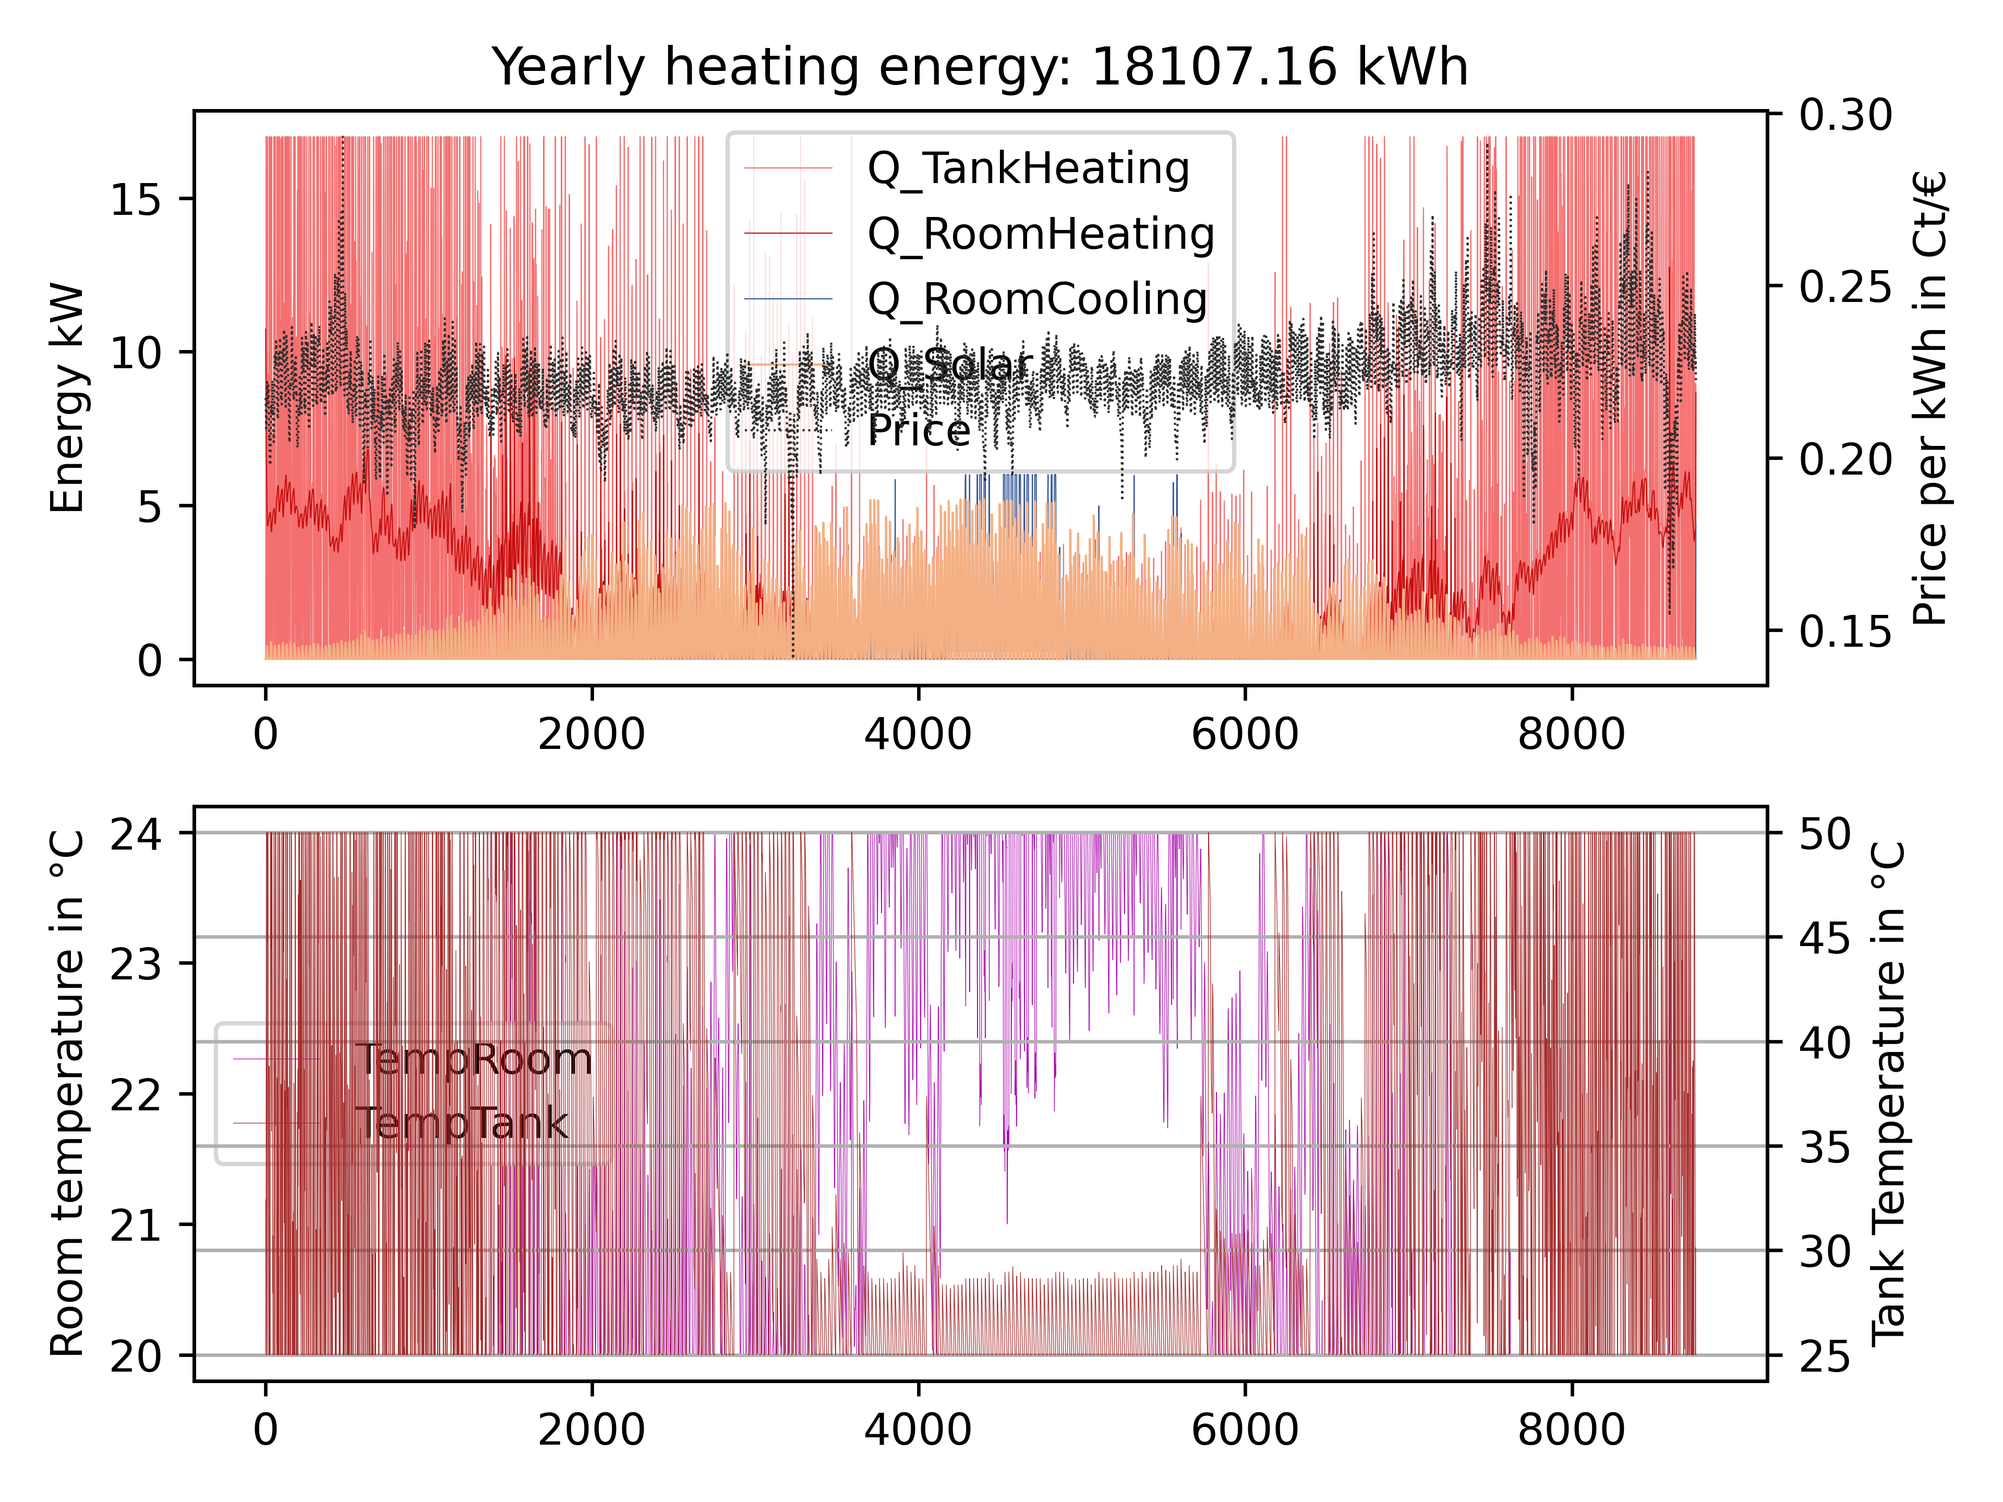
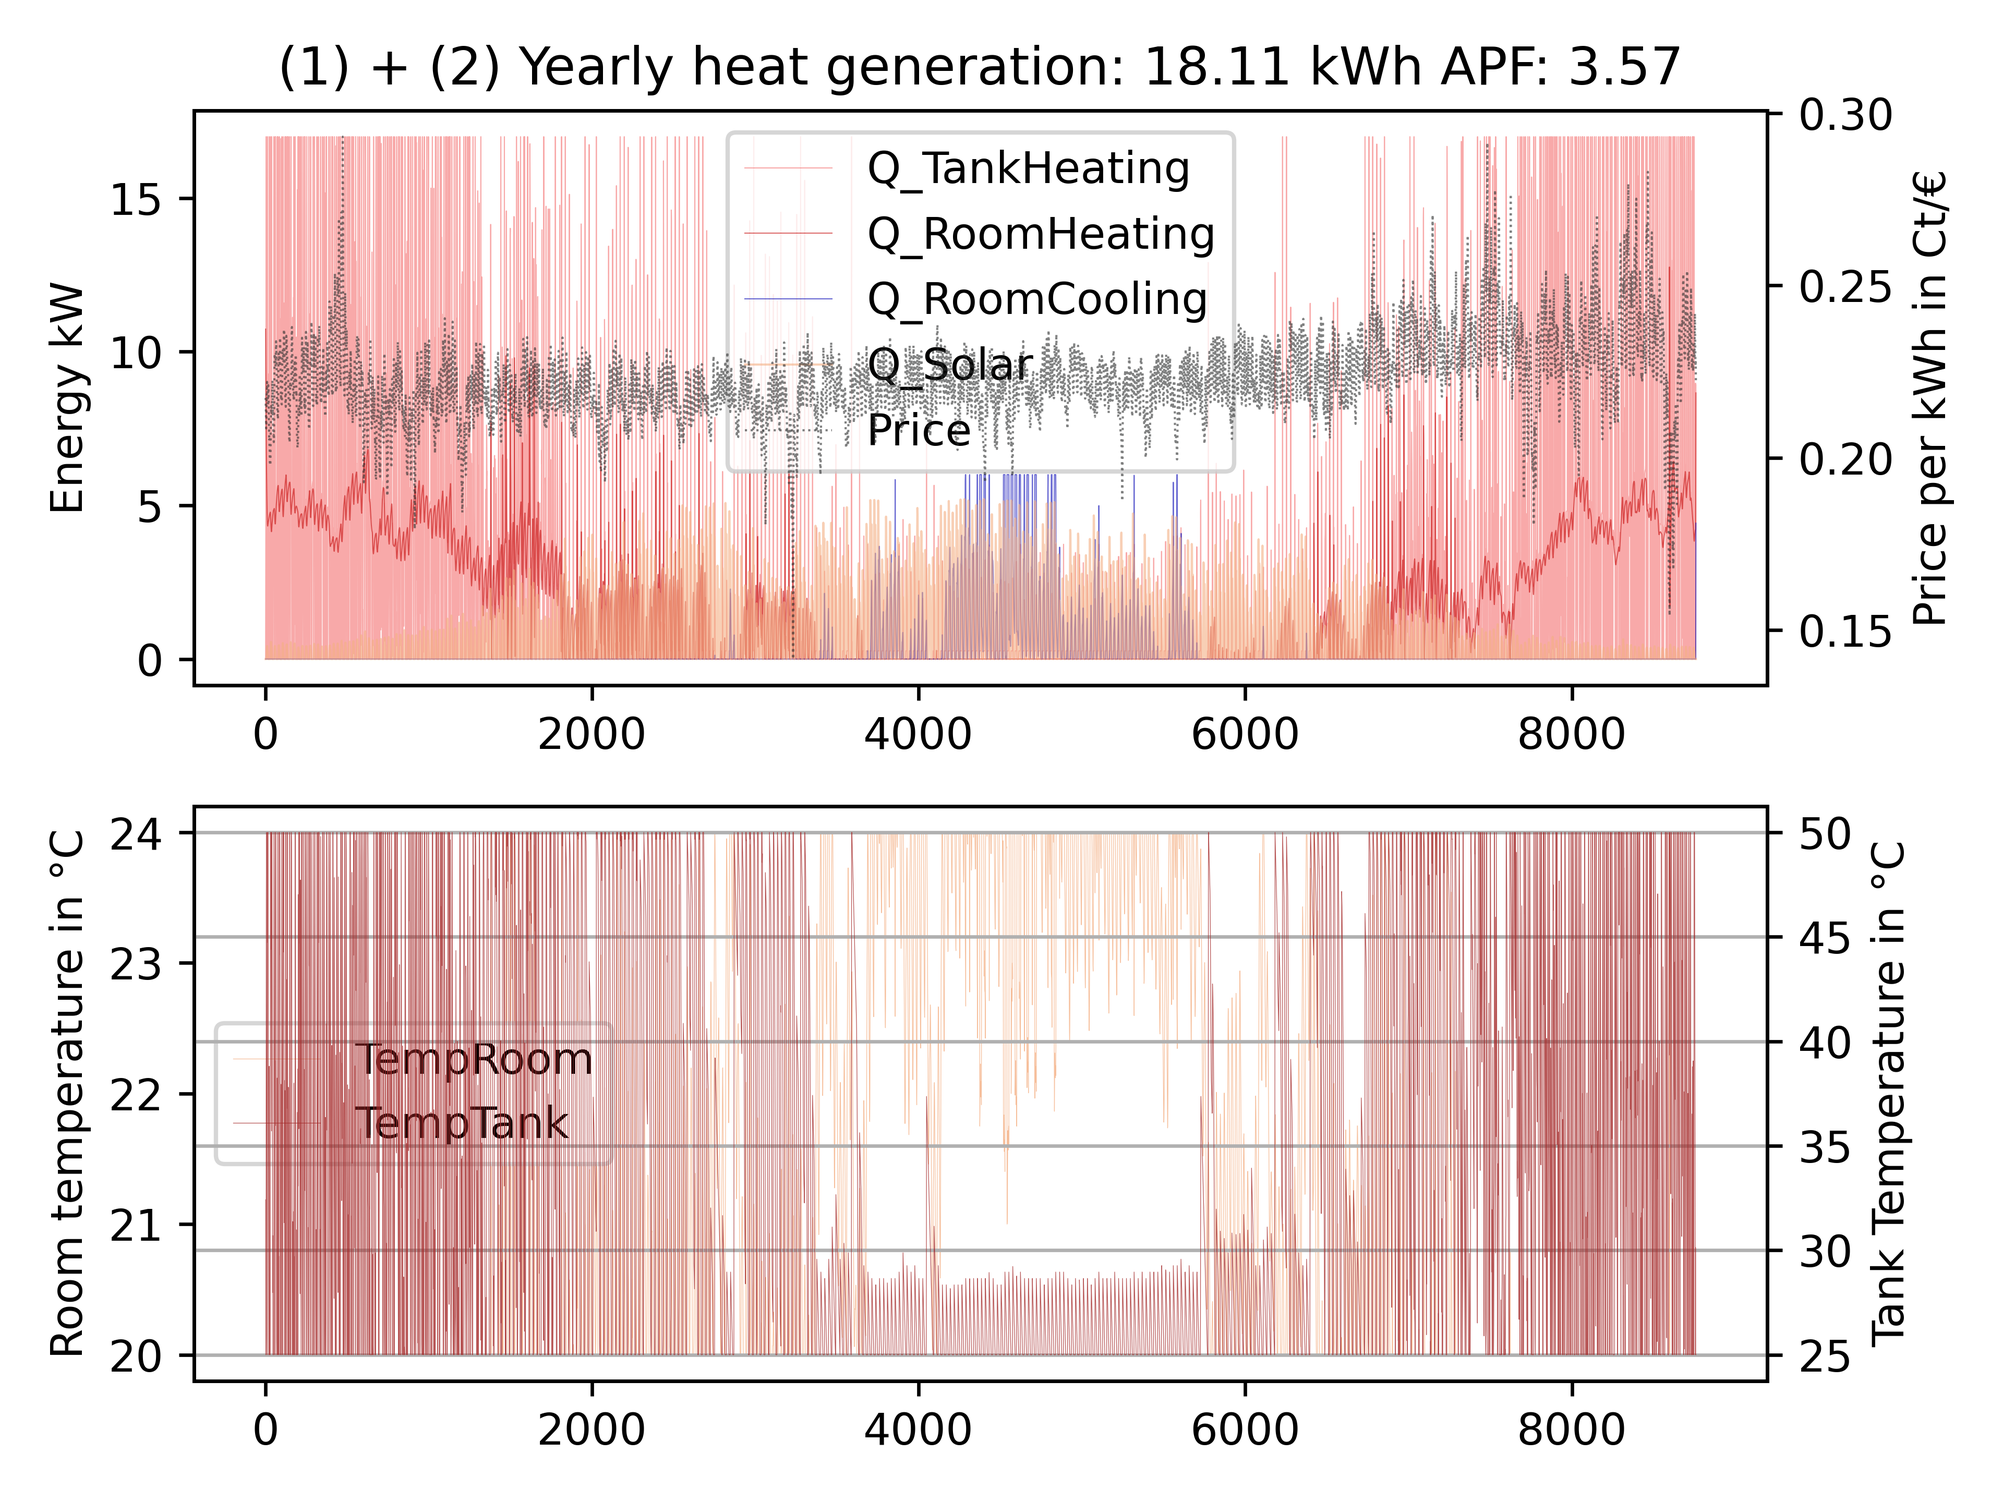
Validation with Checksums, Plot generation

Changed region(s): [[0.125, 0.5312, 0.8438, 0.9062], [0.125, 0.0938, 0.875, 0.4375], [0.125, 0.0312, 0.8438, 0.0625]]

diff --git a/C_Model/C2_OperationOptimization/C21_OperationOptimization.py b/C_Model/C2_OperationOptimization/C21_OperationOptimization.py
@@ -261,21 +261,12 @@ class OperationOptimization:
                 return m.StateOfCharge[t] == 1
             else:
                 return m.StateOfCharge[t] == m.StateOfCharge[t - 1] \
-                       + m.BatCharge[t-1] * Household.Battery.ChargeEfficiency \
-                       - m.BatDischarge[t-1] * (1 + (1 - Household.Battery.DischargeEfficiency)) \
-                    # - (Household.Battery.Capacity * 0.02 / 30 / 24)  # self discharge
+                       + m.BatCharge[t - 1] * Household.Battery.ChargeEfficiency \
+                       - m.BatDischarge[t - 1] * (1 + (1 - Household.Battery.DischargeEfficiency)) \
+                       - (Household.Battery.Capacity * 0.02 / 30 / 24)  # self discharge
                 # SelfDischarge into Database -> 2 % with Capacity
 
         m.calc_BatteryFillLevel = pyo.Constraint(m.t, rule=calc_StateOfCharge)
-
-        # def setToZero(m, t):
-        #     if t == 1:
-        #         return m.StateOfCharge[t] == m.StateOfCharge[t]
-        #     elif m.StateOfCharge[t-1] == 0.0:
-        #         return m.BatDischarge[t] == 0
-        #     else:
-        #         return m.BatDischarge[t] == m.BatDischarge[t]
-        # m.setToZero = pyo.Constraint(m.t, rule=setToZero)
 
         # # Photovoltaic
         def calc_UseOfPhotovoltaic(m, t):
@@ -359,30 +350,28 @@ class OperationOptimization:
         instance.display("./log.txt")
         print(results)
         # return relevant data
-        return instance, HoursOfSimulation, ListOfDynamicCOP, M_WaterTank, CWater, PhotovoltaicProfile
+        return instance, HoursOfSimulation, ListOfDynamicCOP, M_WaterTank, CWater
 
     def run(self):
         for household_id in range(37000, 37001):
             for environment_id in range(3, 4):
-                instance, HoursOfSimulation, ListOfDynamicCOP, M_WaterTank, CWater, PhotovoltaicProfile = self.run_Optimization(
+                instance, HoursOfSimulation, ListOfDynamicCOP, M_WaterTank, CWater = self.run_Optimization(
                     household_id,
                     environment_id)
-                return instance, HoursOfSimulation, ListOfDynamicCOP, M_WaterTank, CWater, PhotovoltaicProfile
+                return instance, HoursOfSimulation, ListOfDynamicCOP, M_WaterTank, CWater
 
 
 # create plots to visualize results price
-def show_results(instance, HoursOfSimulation, ListOfDynamicCOP, M_WaterTank, CWater,
-                 PhotovoltaicProfile, colors):
+def show_results(instance, HoursOfSimulation, ListOfDynamicCOP, M_WaterTank, CWater, colors):
     # calculation of JAZ
-    EnergyThermal = np.array([instance.Q_TankHeating[t]() for t in range(1, HoursOfSimulation + 1)])
-    EnergyElectric = []
+    Q_TankHeating = np.array([instance.Q_TankHeating[t]() for t in range(1, HoursOfSimulation + 1)]) / 1000
+    ElectricityDemandHeatPump = []
 
-    for i in range(1, len(list(EnergyThermal))):
-        HP = EnergyThermal[i] / ListOfDynamicCOP[i]
-        EnergyElectric.append(HP)
+    for i in range(1, len(list(Q_TankHeating))):
+        HP = Q_TankHeating[i] / ListOfDynamicCOP[i]
+        ElectricityDemandHeatPump.append(HP)
 
-    JAZ = (np.sum(EnergyThermal)) / (np.sum(EnergyElectric))
-    print('Test JAZ = ' + str(JAZ))
+    JAZ = round((np.sum(Q_TankHeating)) / (np.sum(ElectricityDemandHeatPump)), 2)
 
     # Visualization
     starttime = 1
@@ -390,12 +379,10 @@ def show_results(instance, HoursOfSimulation, ListOfDynamicCOP, M_WaterTank, CWa
 
     # exogenous profiles
     ElectricityPrice = np.array(list(instance.ElectricityPrice.extract_values().values())[starttime: endtime])
-
     PhotovoltaicProfile = np.array(list(instance.PhotovoltaicProfile.extract_values().values())[starttime: endtime])
     PhotovoltaicDirect = np.array(list(instance.PhotovoltaicDirect.extract_values().values())[starttime: endtime])
     PhotovoltaicFeedin = np.array(list(instance.PhotovoltaicFeedin.extract_values().values())[starttime: endtime])
-
-    SumOfLoads = np.array(list(instance.SumOfLoads.extract_values().values())[starttime: endtime])
+    LoadProfile = np.array(list(instance.LoadProfile.extract_values().values())[starttime: endtime])
 
     # tank and building
     Q_Solar = np.array(list(instance.Q_Solar.extract_values().values())[starttime: endtime]) / 1_000  # from W to kW
@@ -405,6 +392,8 @@ def show_results(instance, HoursOfSimulation, ListOfDynamicCOP, M_WaterTank, CWa
         list(instance.Q_RoomHeating.extract_values().values())[starttime: endtime]) / 1000  # from W to kW
     Q_RoomCooling = np.array(
         list(instance.Q_RoomCooling.extract_values().values())[starttime: endtime]) / 1000  # from W to kW
+    ElectricityCooling = np.array(
+        list(instance.Q_RoomCooling.extract_values().values())[starttime: endtime]) / 1000 / 3
     T_room = np.array(list(instance.T_room.extract_values().values())[starttime: endtime])
     E_tank = np.array(list(instance.E_tank.extract_values().values())[starttime: endtime])
     T_tank = ((pd.Series(E_tank) / (M_WaterTank * CWater)) - 273.15)
@@ -415,20 +404,69 @@ def show_results(instance, HoursOfSimulation, ListOfDynamicCOP, M_WaterTank, CWa
     BatDischarge = np.array(list(instance.BatDischarge.extract_values().values())[starttime: endtime])
     BatCharge = np.array(list(instance.BatCharge.extract_values().values())[starttime: endtime])
 
-    # total values
+    SumOfLoads = np.array(list(instance.SumOfLoads.extract_values().values())[starttime: endtime])
+    # yearly values
     total_cost = instance.OBJ()
-    total_ThermalEnergy = np.sum(EnergyThermal)
+    print('Yearly electricity cost of all technologies: ' + str(total_cost) + '  €')
+
+    YearlyHeatGeneration = np.sum(Q_TankHeating)
+    print('Yearly Output of Heat pump (y): ' + str(YearlyHeatGeneration) + ' kWh')
+
+    print('Annual performance factor of heatpump: ' + str(JAZ))
+
+    YearlyHeatDemand = np.sum(Q_RoomHeating)
+    print('Yearly demand of Space Heating (y): ' + str(YearlyHeatDemand) + ' kWh')
+
+    YearlyCoolingDemand = np.sum(Q_RoomCooling)
+    print('Yearly demand of Space Cooling (y): ' + str(YearlyCoolingDemand) + ' kWh')
+
+    YearlySolarGain = np.sum(Q_Solar)
+    print('Yearly demand of Solar gains (y): ' + str(YearlySolarGain) + ' kWh')
+
+    YearlyGridCover = np.sum(GridCover)
+    print('Yearly cover from electricity grid: ' + str(YearlyGridCover) + ' kWh')
+
+    YearlyPVGeneration = np.sum(PhotovoltaicProfile)
+    print('Yearly generation of Photvoltaic power: (y) ' + str(YearlyPVGeneration) + ' kWh')
+
+    YearlyUseOfPhotovoltaic = np.sum(PhotovoltaicDirect)
+    print('Yearly self consumption of photovoltaic : ' + str(YearlyUseOfPhotovoltaic) + ' kWh')
+
+    YearlyStoredEnergy = np.sum(BatCharge)
+    print('Yearly charged power in battery : ' + str(YearlyStoredEnergy) + ' kWh')
+
+    YearlyDischargedEnergy = np.sum(BatDischarge)
+    print('Yearly discharged power in battery : ' + str(YearlyDischargedEnergy) + ' kWh')
+
+    YearlyFeedin = np.sum(PhotovoltaicFeedin)
+    print('Yearly photovoltaic feed in  : ' + str(YearlyFeedin) + ' kWh')
+
+    YearlyElectricityDemand = np.sum(SumOfLoads)
+    print('Yearly demand of electricity (all) (y) : ' + str(YearlyElectricityDemand) + ' kWh')
+
+    YearlyElectricityDemandHeatPump = np.sum(ElectricityDemandHeatPump)
+    print('Yearly electricity demand of heatpump (y): ' + str(YearlyElectricityDemandHeatPump) + ' kWh')
+
+    YearlyElectricityCooling = np.sum(ElectricityCooling)
+    print('Yearly electricity demand cooling (y): ' + str(YearlyElectricityCooling) + ' kWh')
+
+    YearlyBaseLoad = np.sum(LoadProfile)
+    print('Yearly base electricity demand (y) : ' + str(YearlyBaseLoad) + ' kWh')
+
+    SelfConsumption = round((YearlyUseOfPhotovoltaic + YearlyStoredEnergy) / YearlyPVGeneration, 2)
+    SelfSufficiency = round((YearlyUseOfPhotovoltaic + YearlyStoredEnergy) / YearlyElectricityDemand, 2)
 
     # Plot (1) Room and building
     x_achse = np.arange(starttime, endtime)
     fig, (ax1, ax3) = plt.subplots(2, 1)
     ax2 = ax1.twinx()
     ax4 = ax3.twinx()
-    ax1.plot(x_achse, Q_TankHeating, label="Q_TankHeating", color=colors["Q_TankHeating"], linewidth=0.25)
-    ax1.plot(x_achse, Q_RoomHeating, label="Q_RoomHeating", color=colors["Q_RoomHeating"], linewidth=0.25)
-    ax1.plot(x_achse, Q_RoomCooling, label="Q_RoomCooling", color=colors["Q_RoomCooling"], linewidth=0.25)
-    ax1.plot(x_achse, Q_Solar, label="Q_Solar", color=colors["Q_Solar"], linewidth=0.5)
-    ax2.plot(x_achse, ElectricityPrice, color=colors["ElectricityPrice"], label="Price", linewidth=0.50, linestyle=':')
+    ax1.plot(x_achse, Q_TankHeating, label="Q_TankHeating", color=colors["Q_TankHeating"], linewidth=0.25, alpha=0.6)
+    ax1.plot(x_achse, Q_RoomHeating, label="Q_RoomHeating", color=colors["Q_RoomHeating"], linewidth=0.25, alpha=0.6)
+    ax1.plot(x_achse, Q_RoomCooling, label="Q_RoomCooling", color=colors["Q_RoomCooling"], linewidth=0.25, alpha=0.6)
+    ax1.plot(x_achse, Q_Solar, label="Q_Solar", color=colors["Q_Solar"], linewidth=0.5, alpha=0.6)
+    ax2.plot(x_achse, ElectricityPrice, color=colors["ElectricityPrice"], label="Price", linewidth=0.50, linestyle=':',
+             alpha=0.6)
 
     ax1.set_ylabel("Energy kW")
     ax2.set_ylabel("Price per kWh in Ct/€")
@@ -437,8 +475,8 @@ def show_results(instance, HoursOfSimulation, ListOfDynamicCOP, M_WaterTank, CWa
     lines2, labels2 = ax2.get_legend_handles_labels()
     ax1.legend(lines + lines2, labels + labels2, loc=0)
 
-    ax3.plot(x_achse, T_room, label="TempRoom", color=colors["T_room"], linewidth=0.15)
-    ax4.plot(x_achse, T_tank, label="TempTank", color=colors["T_tank"], linewidth=0.15)
+    ax3.plot(x_achse, T_room, label="TempRoom", color=colors["T_room"], linewidth=0.15, alpha=0.8)
+    ax4.plot(x_achse, T_tank, label="TempTank", color=colors["T_tank"], linewidth=0.15, alpha=0.8)
 
     ax3.set_ylabel("Room temperature in °C", color='black')
     ax4.set_ylabel("Tank Temperature in °C", color='black')
@@ -448,7 +486,9 @@ def show_results(instance, HoursOfSimulation, ListOfDynamicCOP, M_WaterTank, CWa
     ax3.legend(lines + lines2, labels + labels2, loc=0)
 
     plt.grid()
-    ax1.set_title('Yearly heating energy: ' + str(round(total_ThermalEnergy / 1000, 2)) + ' kWh')
+    ax1.set_title(
+        '(1) + (2) Yearly heat generation: ' + str(round(YearlyHeatGeneration / 1000, 2)) + ' kWh ' + 'APF: ' + \
+        str(JAZ))
     plt.tight_layout()
     fig.savefig('Room and building', dpi=600)
     plt.show()
@@ -456,19 +496,19 @@ def show_results(instance, HoursOfSimulation, ListOfDynamicCOP, M_WaterTank, CWa
     # Plot (2) SoC: Charge and Discharge
     fig, ax1 = plt.subplots()
 
-    ax1.plot(x_achse, BatCharge, linewidth=0.5, label='BatCharge', color=colors["BatCharge"])
-    ax1.plot(x_achse, BatDischarge, linewidth=0.5, label='BatDischarge', color=colors["BatDischarge"])
+    ax1.plot(x_achse, BatCharge, linewidth=0.5, label='BatCharge', color=colors["BatCharge"], alpha=0.8)
+    ax1.plot(x_achse, BatDischarge, linewidth=0.5, label='BatDischarge', color=colors["BatDischarge"], alpha=0.8)
     ax1.set_ylabel("Power kW")
 
     ax2 = ax1.twinx()
-    ax2.plot(x_achse, StateOfCharge, linewidth=3, label='SoC', color=colors["StateOfCharge"], alpha=0.2)
+    ax2.plot(x_achse, StateOfCharge, linewidth=0.75, label='SoC', color=colors["StateOfCharge"], alpha=0.2)
 
     lines, labels = ax1.get_legend_handles_labels()
     lines2, labels2 = ax2.get_legend_handles_labels()
     ax1.legend(lines + lines2, labels + labels2, loc=0)
     ax2.set_ylabel("SoC in kWh")
 
-    plt.title('SoC: Charge and Discharge')
+    plt.title('(2) SoC: Charge and Discharge')
     plt.tight_layout()
     fig.savefig('Battery Charge Discharge', dpi=600)
     plt.show()
@@ -476,11 +516,13 @@ def show_results(instance, HoursOfSimulation, ListOfDynamicCOP, M_WaterTank, CWa
     # Plot (3) Use of the PV Power
     fig, ax1 = plt.subplots()
 
-    ax1.plot(x_achse, BatCharge, linewidth=0.5, label='BatCharge', color=colors["BatCharge"])
-    ax1.plot(x_achse, PhotovoltaicFeedin, linewidth=0.5, label='PhotovoltaicFeedin', color=colors["PhotovoltaicFeedin"])
-    ax1.plot(x_achse, PhotovoltaicDirect, linewidth=0.5, label='PhotovoltaicDirect', color=colors["PhotovoltaicDirect"])
-    ax1.plot(x_achse, PhotovoltaicProfile, linewidth=3, label='PhotovoltaicProfile',
-             color=colors["PhotovoltaicProfile"], alpha=0.25)
+    ax1.plot(x_achse, BatCharge, linewidth=0.5, label='BatCharge', color=colors["BatCharge"], alpha=0.6)
+    ax1.plot(x_achse, PhotovoltaicFeedin, linewidth=0.5, label='PhotovoltaicFeedin', color=colors["PhotovoltaicFeedin"],
+             alpha=0.6)
+    ax1.plot(x_achse, PhotovoltaicDirect, linewidth=0.5, label='PhotovoltaicDirect', color=colors["PhotovoltaicDirect"],
+             alpha=0.6)
+    ax1.plot(x_achse, PhotovoltaicProfile, linewidth=1.5, label='PhotovoltaicProfile',
+             color=colors["PhotovoltaicProfile"], alpha=0.3)
 
     ax1.set_ylabel("Power kW")
     plt.legend()
@@ -492,14 +534,16 @@ def show_results(instance, HoursOfSimulation, ListOfDynamicCOP, M_WaterTank, CWa
     # Plot (4) Supply of Loads
     fig, ax1 = plt.subplots()
 
-    ax1.plot(x_achse, SumOfLoads, linewidth=3, label='SumOfLoads', color=colors["SumOfLoads"], alpha=0.1)
-    ax1.plot(x_achse, GridCover, linewidth=0.5, label='GridCover', color=colors["GridCover"])
-    ax1.plot(x_achse, BatDischarge, linewidth=0.5, label='BatDischarge', color=colors["BatDischarge"])
-    ax1.plot(x_achse, PhotovoltaicDirect, linewidth=0.5, label='PhotovoltaicDirect', color=colors["PhotovoltaicDirect"])
+    ax1.plot(x_achse, SumOfLoads, linewidth=0.5, label='SumOfLoads', color=colors["SumOfLoads"], alpha=0.2)
+    ax1.plot(x_achse, GridCover, linewidth=0.5, label='GridCover', color=colors["GridCover"], alpha=0.6)
+    ax1.plot(x_achse, BatDischarge, linewidth=0.5, label='BatDischarge', color=colors["BatDischarge"], alpha=0.6)
+    ax1.plot(x_achse, PhotovoltaicDirect, linewidth=0.5, label='PhotovoltaicDirect', color=colors["PhotovoltaicDirect"],
+             alpha=0.6)
 
     ax1.set_ylabel("Power kW")
     plt.legend()
-    plt.title('(4) Supply of Loads)')
+    plt.title('(4) Supply of Loads: ' + 'Self-consumption: ' + str(SelfConsumption) + ' Self-sufficiency: ' + str(
+        SelfSufficiency))
     plt.tight_layout()
     fig.savefig('Supply of Loads', dpi=600)
     plt.show()
@@ -509,13 +553,13 @@ if __name__ == "__main__":
     # colorcode
     red = '#F47070'
     blue = '#8EA9DB'
-    green = '#36ec36'
+    green = '#088A29'
     orange = '#F4B084'
-    yellow = '#FFD966'
+    yellow = '#FFBF00'
     grey = '#C9C9C9'
     pink = '#FA9EFA'
     dark_green = '#375623'
-    dark_blue = '#305496'
+    dark_blue = '#0404B4'
     purple = '#AC0CB0'
     turquoise = '#3BE0ED'
     dark_red = '#c70d0d'
@@ -527,22 +571,21 @@ if __name__ == "__main__":
     colors = {"Q_RoomHeating": dark_red,
               "Q_TankHeating": red,
               "Q_RoomCooling": dark_blue,
-              "T_room": purple,
+              "T_room": orange,
               "T_room_noDR": pink,
               "T_tank": brown,
               "ElectricityPrice": dark_grey,
               "Q_Solar": orange,
               "PhotovoltaicProfile": yellow,
               "PhotovoltaicFeedin": green,
-              "PhotovoltaicDirect": dark_green,
+              "PhotovoltaicDirect": dark_grey,
               "Q_RoomHeating_noDR": red_pink,
               "Q_RoomCooling_noDR": turquoise,
               "GridCover": light_brown,
-              'BatCharge': orange,
+              'BatCharge': black,
               'BatDischarge': red,
               'SumOfLoads': black,
               "StateOfCharge": black}
     A = OperationOptimization(DB().create_Connection(CONS().RootDB))
-    instance, HoursOfSimulation, ListOfDynamicCOP, M_WaterTank, CWater, PhotovoltaicProfile = A.run()
-    show_results(instance, HoursOfSimulation, ListOfDynamicCOP, M_WaterTank, CWater,
-                 PhotovoltaicProfile, colors)
+    instance, HoursOfSimulation, ListOfDynamicCOP, M_WaterTank, CWater = A.run()
+    show_results(instance, HoursOfSimulation, ListOfDynamicCOP, M_WaterTank, CWater, colors)
